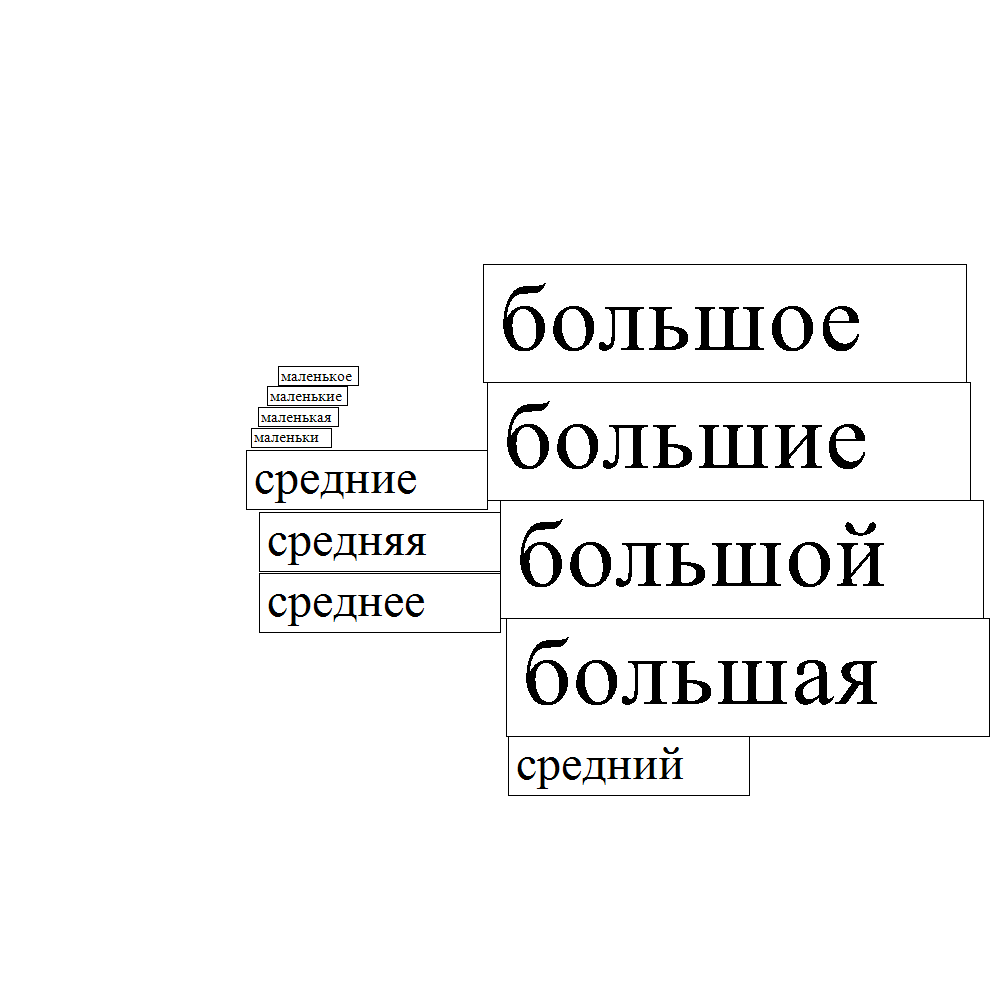
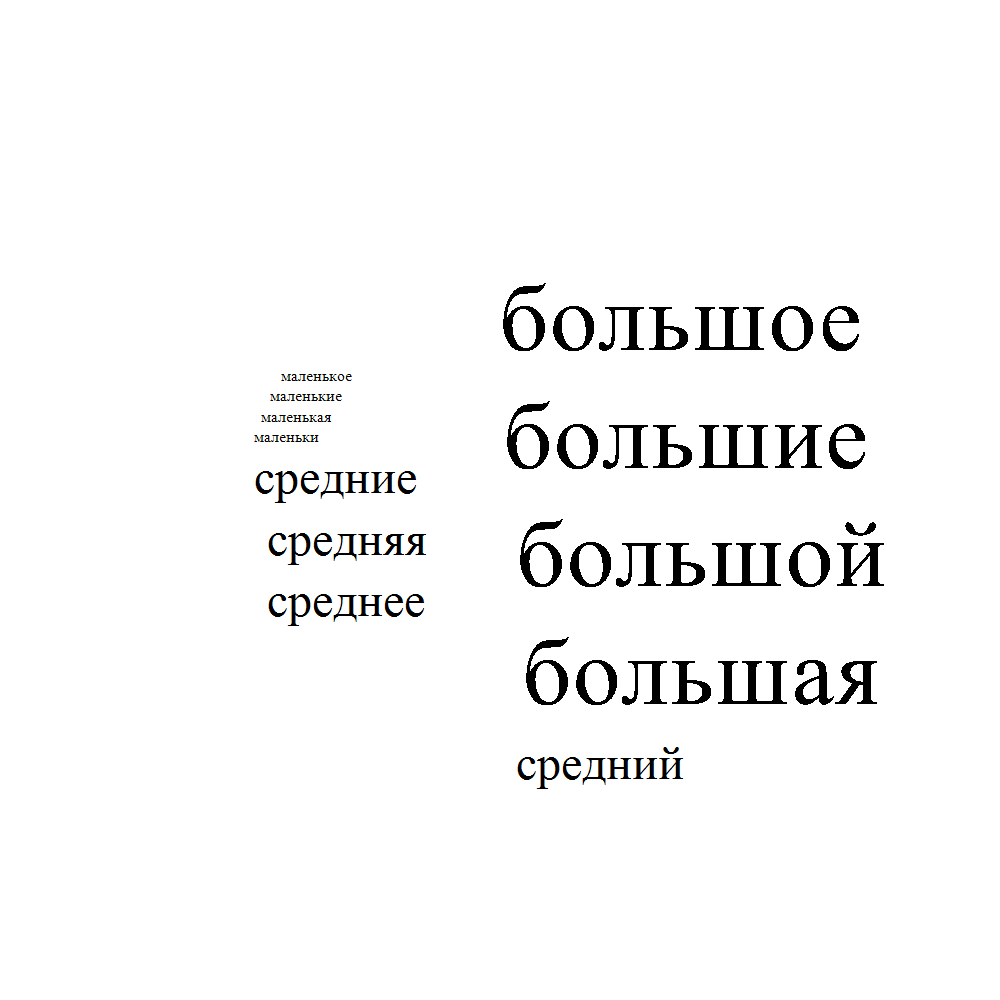
Оптимизировано создание битмапа

Changed region(s): [[0.248, 0.403, 0.341, 0.434]]

diff --git a/TagCloud.Visualizer/ImageOptions.cs b/TagCloud.Visualizer/ImageOptions.cs
@@ -14,7 +14,7 @@ namespace TagCloud.Visualizer
 
         [Option('c', "color")] public string ColorName { get; private set; }
 
-        [Option('e', "imageExt")] public string ImageExtension { get; private set; }
+        [Option('i', "imageSaveName")] public string ImageSaveName { get; private set; }
 
         public ImageOptions()
         {
@@ -23,7 +23,7 @@ namespace TagCloud.Visualizer
             ImageHeight = 1000;
             ImageWidth = 1000;
             ColorName = "Black";
-            ImageExtension = "png";
+            ImageSaveName = "result.png";
         }
 
         public int ChangeImageOptionsAndReturnExitCode(ImageOptions opts)
@@ -33,7 +33,7 @@ namespace TagCloud.Visualizer
             ImageHeight = opts.ImageHeight;
             ImageWidth = opts.ImageWidth;
             ColorName = opts.ColorName;
-            ImageExtension = opts.ImageExtension;
+            ImageSaveName = opts.ImageSaveName;
             return 0;
         }
     }

diff --git a/TagCloud.Visualizer/BitmapCreator.cs b/TagCloud.Visualizer/BitmapCreator.cs
@@ -8,13 +8,14 @@ namespace TagCloud.Visualizer
         internal static Bitmap DrawBitmap(List<RectangleWithWord> rectanglesWithWords, ImageOptions opts)
         {
             var bitmap = new Bitmap(opts.ImageWidth, opts.ImageHeight);
-            var graph = Graphics.FromImage(bitmap);
+            using var graph = Graphics.FromImage(bitmap);
             graph.Clear(Color.White);
             var brush = (Brush) typeof(Brushes).GetProperty($"{opts.ColorName}")?.GetValue(null);
             foreach (var rectangleWithWord in rectanglesWithWords)
             {
+                using var font = new Font(opts.FontName, opts.FontSize * (float) rectangleWithWord.Word.Weight);
                 graph.DrawString(rectangleWithWord.Word.Value,
-                    new Font(opts.FontName, opts.FontSize * (float) rectangleWithWord.Word.Weight),
+                    font,
                     brush!,
                     rectangleWithWord.Rectangle);
             }
